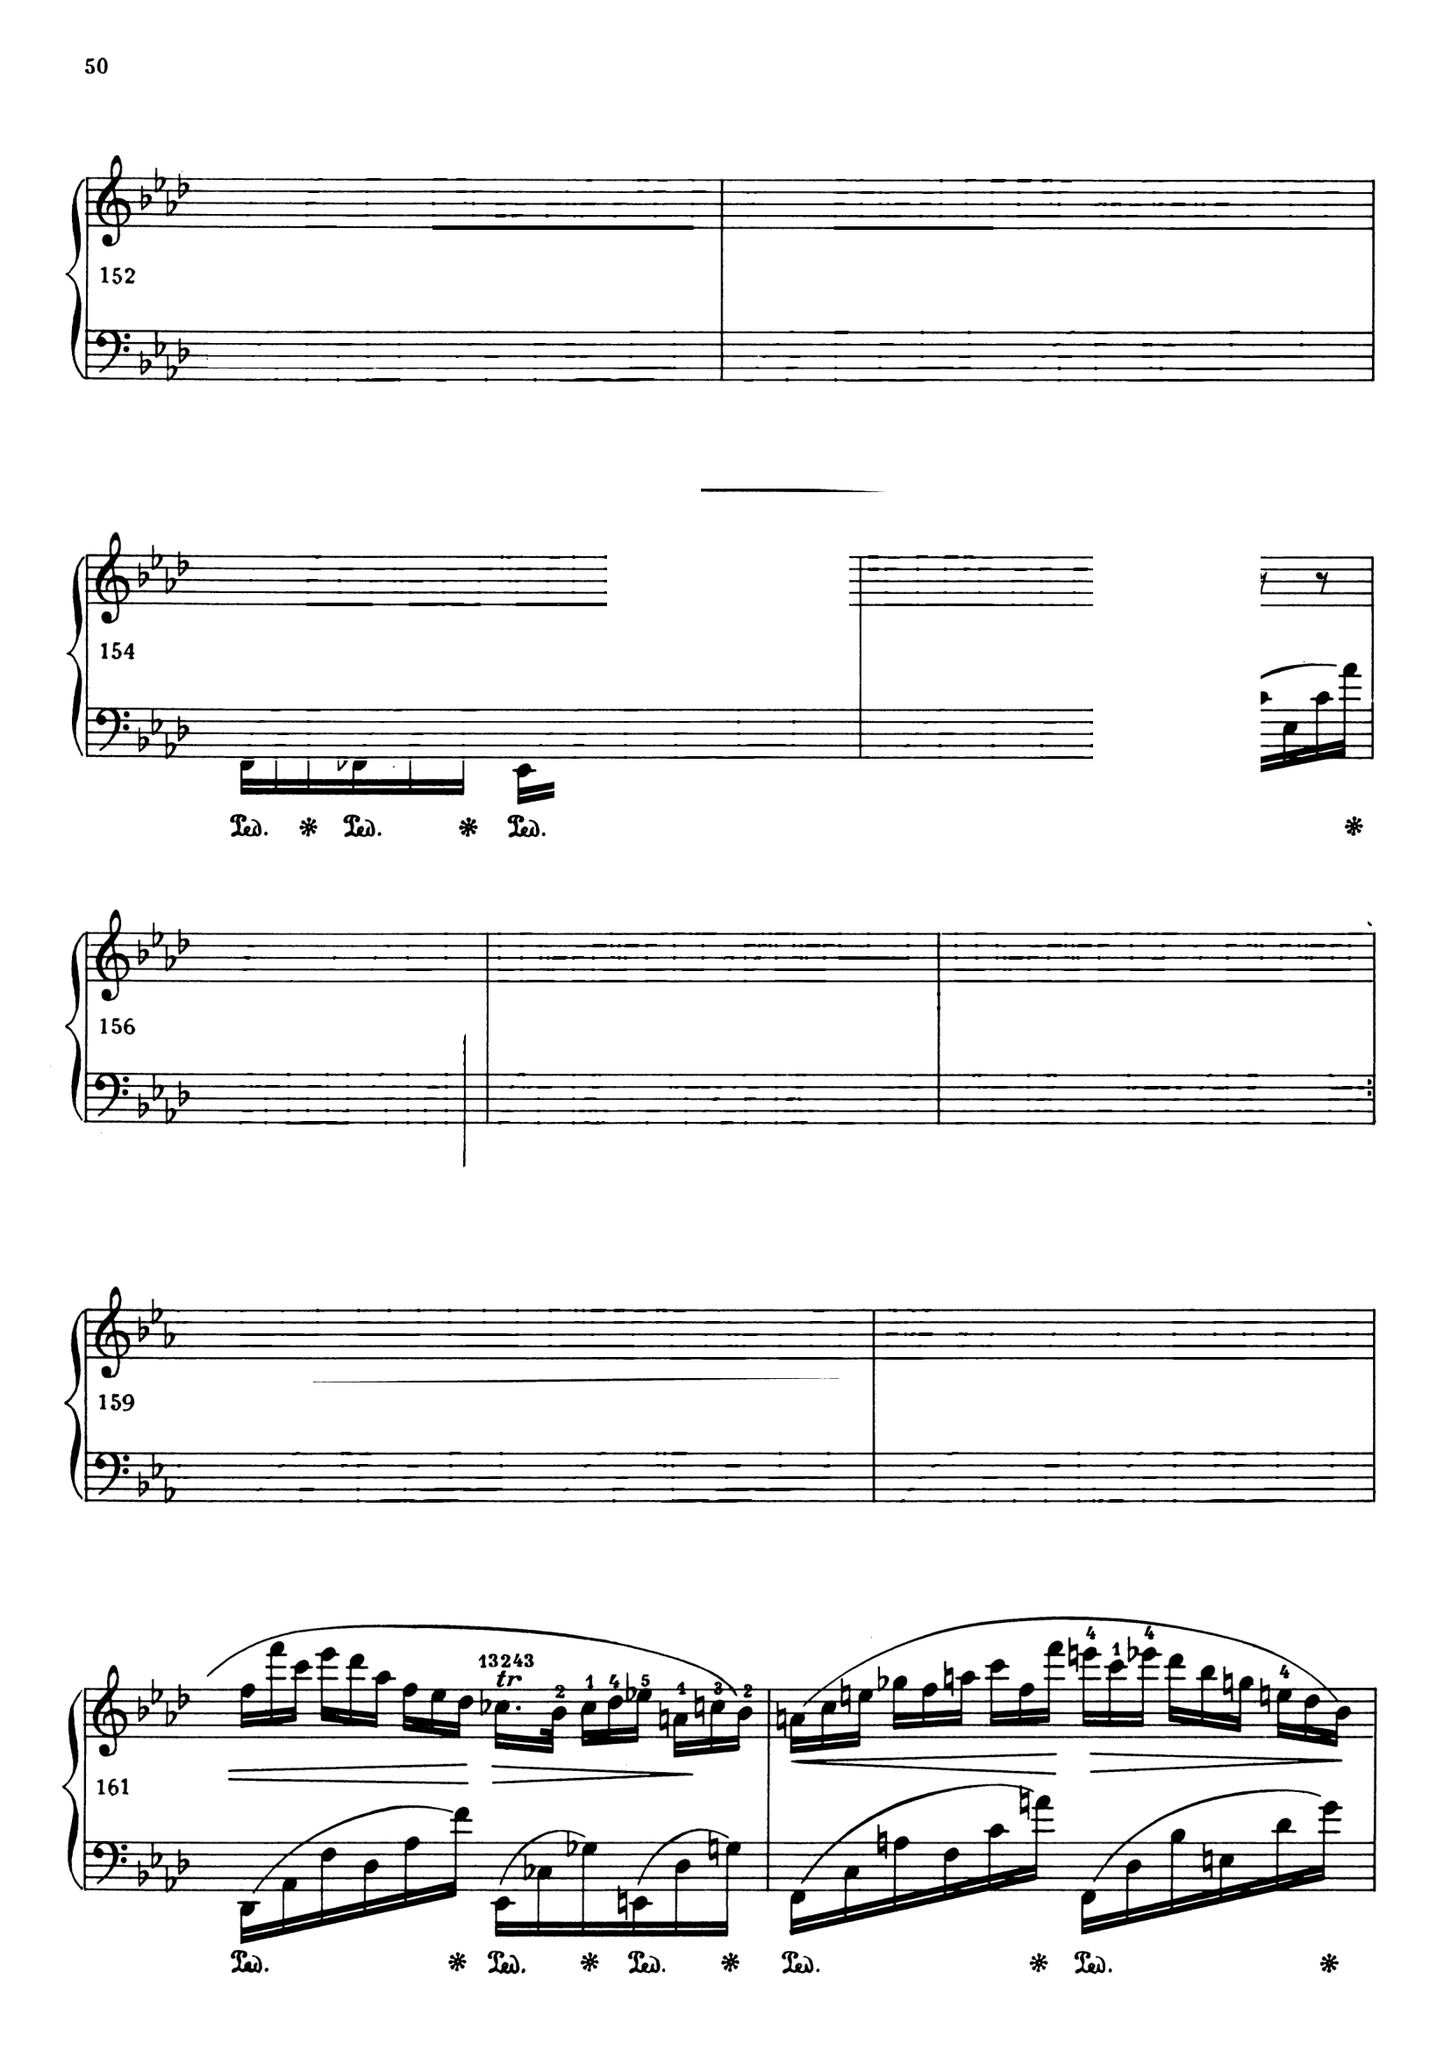
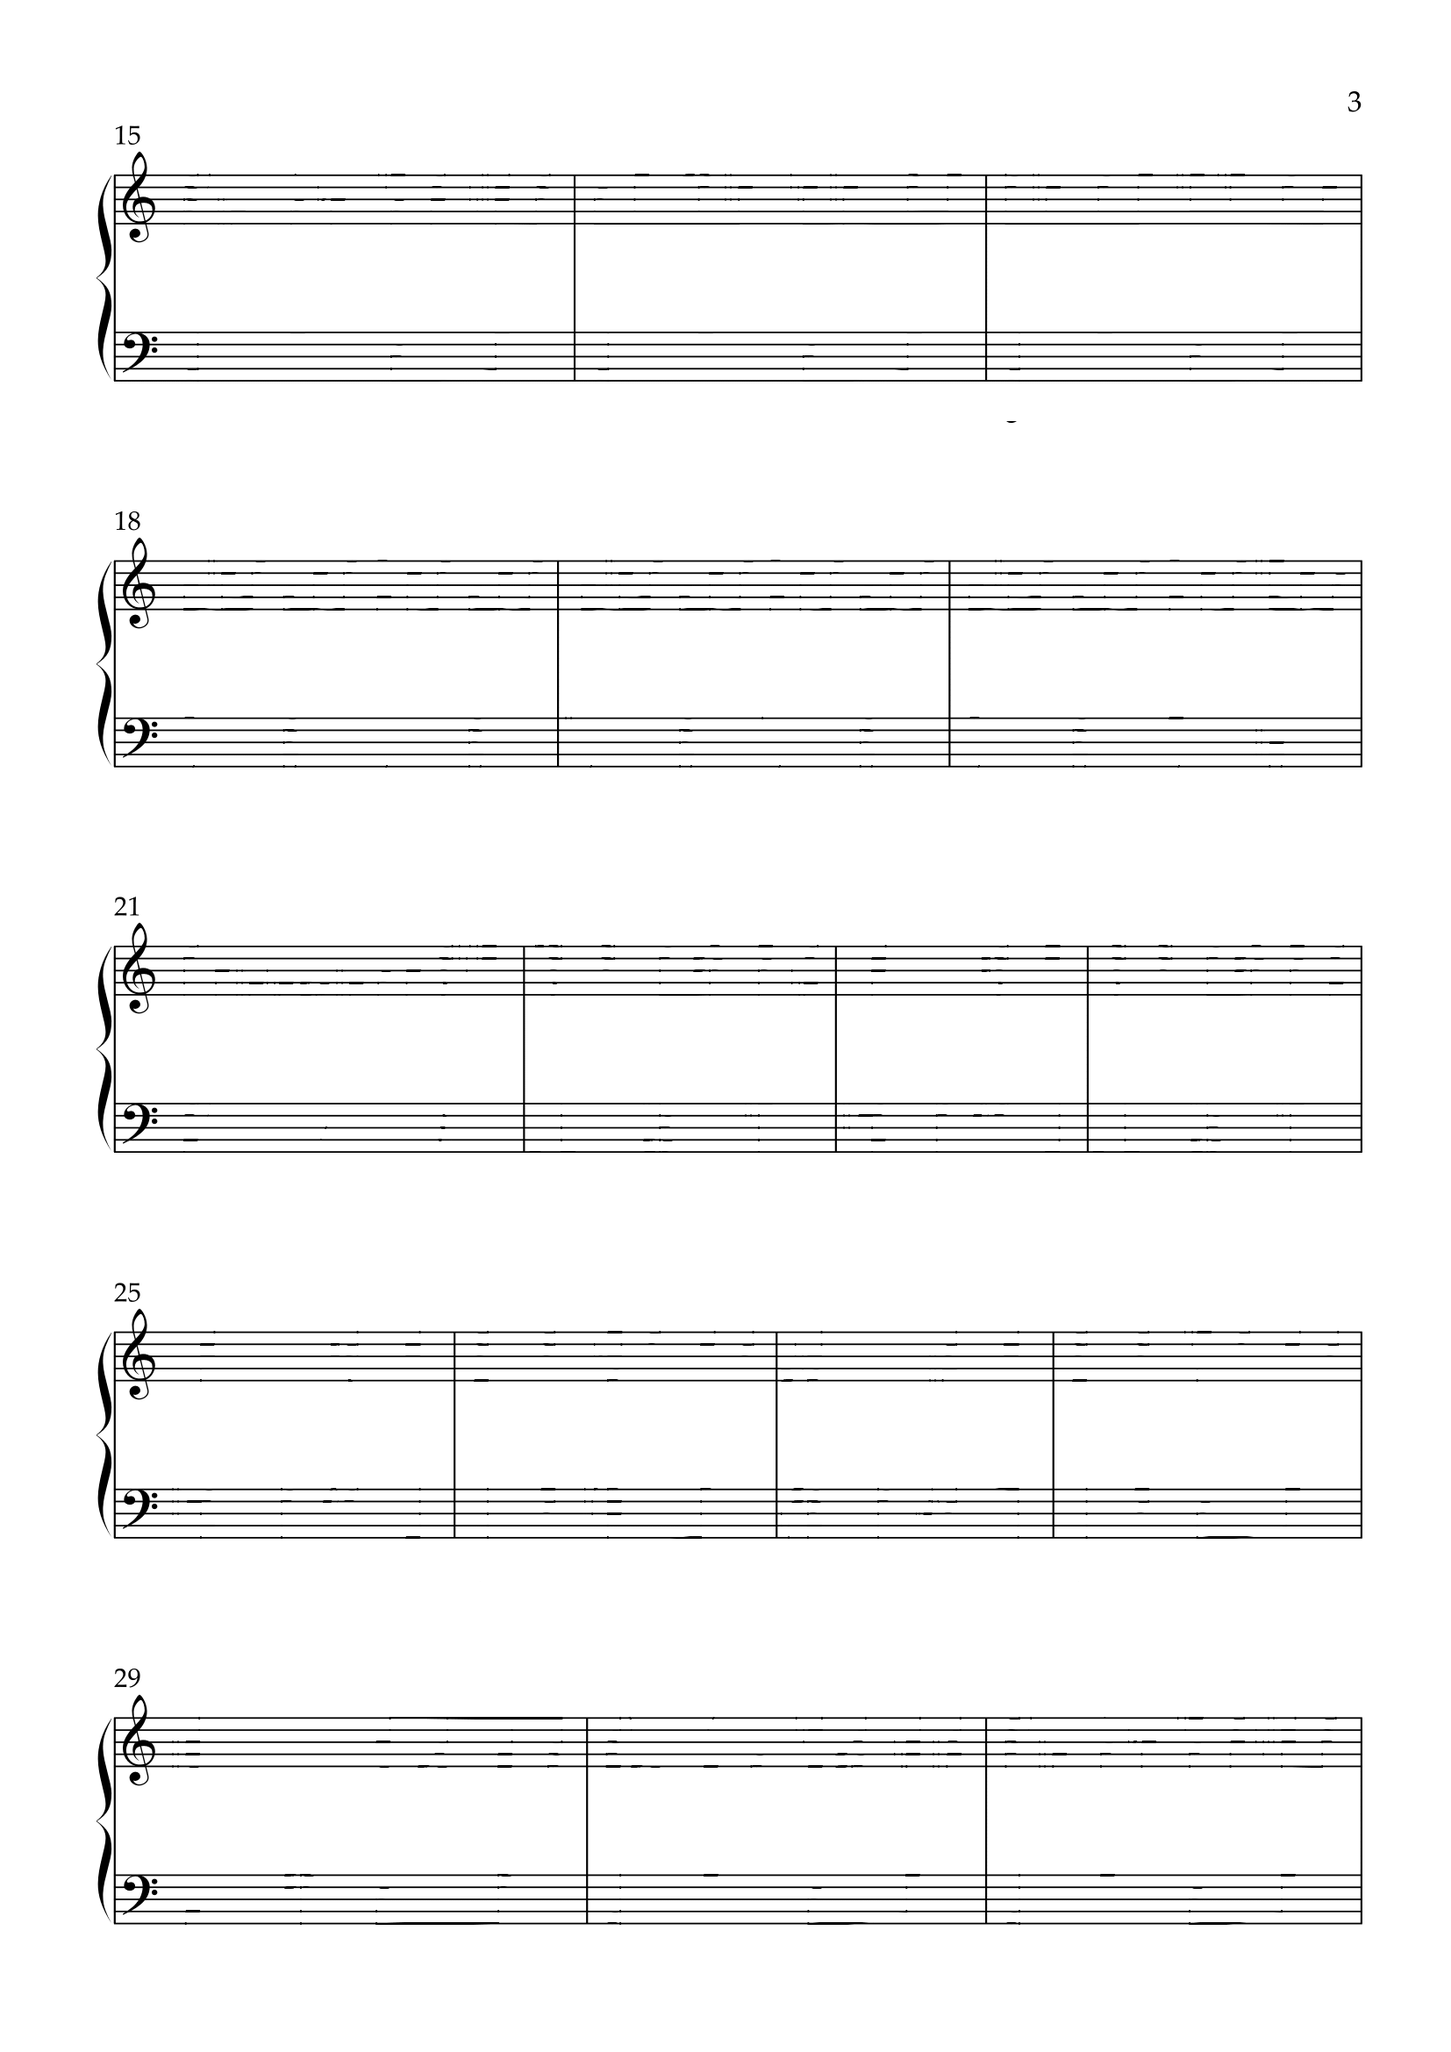
Stuff

diff --git a/video.py b/video.py
@@ -49,9 +49,9 @@ class VideoEditor(tk.Frame):
         self.note_viewer_image = self.note_viewer.create_image(0, 0, anchor='nw', image=self.page_imgs[self.page - 1])
 
         self.last_note_images = []  # ImageTK
-        self.notes = {
-            'r': [], 'l': [], 'symbols': []
-        }  # Map of voices and list of notes {'timing', 'animation', 'duration}
+        with open('notes.json') as f:  # [{'r': [] ...}, {'r': [] ...} ...]
+            self.notes = json.load(f)
+
         self.history = []
 
         self.play_pause_button = tk.Button(self, text='Play', command=self.play_pause)
@@ -62,7 +62,7 @@ class VideoEditor(tk.Frame):
         self.progress_slider.grid(row=10, column=4, sticky='news', padx=3, pady=3, columnspan=5)
 
         self.speed_var = tk.StringVar(self, '1x')
-        self.speed_dropdown = tk.OptionMenu(self, self.speed_var, '1x', '0.5x', '0.25x', '0.125x', '0.0625x')
+        self.speed_dropdown = tk.OptionMenu(self, self.speed_var, '1x', '0.5x', '0.25x', '0.125x', '0.0625x', '0.02x')
         self.speed_dropdown.grid(row=10, column=9, sticky='news', padx=3, pady=3)
 
         # Voice input buttons
@@ -73,6 +73,7 @@ class VideoEditor(tk.Frame):
         self.rh_on = tk.IntVar()
         self.lh_on = tk.IntVar()
         self.symbol_on = tk.IntVar()
+        self.extra_on = tk.IntVar()
         
         self.check_box_frame = tk.Frame(self)
         self.check_box_frame.grid(row=11, column=0, rowspan=1, columnspan=1)
@@ -82,6 +83,8 @@ class VideoEditor(tk.Frame):
         self.lh_check_box.pack()
         self.symbol_check_box = tk.Checkbutton(self.check_box_frame, text='Symbol', variable=self.symbol_on)
         self.symbol_check_box.pack()
+        self.extra_check_box = tk.Checkbutton(self.check_box_frame, text='Extra', variable=self.extra_on)
+        self.extra_check_box.pack()
 
         self.fast_place_frame = tk.Frame(self)
         self.fast_place_frame.grid(row=12, column=0)
@@ -105,21 +108,38 @@ class VideoEditor(tk.Frame):
         self.duration_button = tk.Button(self.duration_frame, text='Enter', command=self.get_animation_duration)
         self.duration_button.pack()
 
-        self.guidelines = []  # List of timings
+        with open('misc.json') as f:
+            self.misc_data = json.load(f)
+            self.misc_data.setdefault('guidelines', [])
+            self.misc_data.setdefault('pagebreaks', [])
+
+        if len(self.notes) <= len(self.misc_data['pagebreaks']):
+            self.create_new_page()
 
         self.place_frame = tk.Frame(self)
         self.place_frame.grid(row=11, column=1)
-        self.place_note_button = tk.Button(self.place_frame, text='Place Voice', command=self.place_voice_button)
+        self.place_note_button = tk.Button(self.place_frame, text='Place voice', command=self.place_voice_button)
         self.place_note_button.pack(fill='both')
         self.place_guideline_button = tk.Button(self.place_frame, text='Place guideline', command=self.place_guideline)
         self.place_guideline_button.pack()
 
-        self.place_mode = tk.StringVar(self, 'on')
-        self.place_mode_menu = tk.OptionMenu(self.place_frame, self.place_mode, 'on', 'before')
+        self.pagebreak_button = tk.Button(self.place_frame, text='Pagebreak', command=self.place_pagebreak)
+        self.pagebreak_button.pack(fill='both')
+
+        self.place_mode = tk.StringVar(self, 'before')
+        self.place_mode_menu = tk.OptionMenu(self.place_frame, self.place_mode, 'before', 'on')
         self.place_mode_menu.pack(fill='both')
 
-        self.save_button = tk.Button(self, text='Save Notes', command=self.save_json)
-        self.save_button.grid(row=13, column=1)
+        self.animation_type = tk.StringVar(self, 'fade')
+        self.animation_type_menu = tk.OptionMenu(self.place_frame, self.animation_type, 'fade', 'glow', 'slide')
+        self.animation_type_menu.pack(fill='both')
+
+        self.save_clear_frame = tk.Frame(self)
+        self.save_clear_frame.grid(row=13, column=1)
+        self.save_button = tk.Button(self.save_clear_frame, text='Save Notes', command=self.save_json)
+        self.save_button.pack()
+        self.clear_button = tk.Button(self.save_clear_frame, text='Clear page', command=self.clear)
+        self.clear_button.pack()
 
         self.undo_button = tk.Button(self, text='Undo', command=self.undo, state=tk.DISABLED)
         self.undo_button.grid(row=13, column=0)
@@ -137,6 +157,12 @@ class VideoEditor(tk.Frame):
         self.playback_elements = []
         self.update_voice_input(event=None)
 
+    def create_new_page(self):
+        new_page = {
+            'r': [], 'l': [], 'symbols': [], 'extra': []
+        }
+        self.notes.append(new_page)
+
     def undo(self):
         recent = self.history[-1]
         self.notes = recent
@@ -147,6 +173,24 @@ class VideoEditor(tk.Frame):
         if not self.history:
             self.undo_button.configure(state=tk.DISABLED)
 
+    def clear(self):
+        self.notes[-1] = {
+            'r': [], 'l': [], 'symbols': [], 'extra': []
+        }
+        new_guidelines = []
+        for line in self.misc_data['guidelines']:
+            if line <= self.misc_data['pagebreaks'][-1]:
+                new_guidelines.append(line)
+        self.misc_data['guidelines'] = new_guidelines
+        self.misc_data = {'guidelines': [], 'pagebreaks': []}
+        with open('notes.json', 'w') as f:
+            json.dump(self.notes, f)
+        with open('misc.json', 'w') as f:
+            json.dump(self.misc_data, f)
+
+        self.update_note_viewer()
+        self.update_voice_input(event=None)
+
     def fast_place(self):
         text = self.fast_place_text.get("1.0", 'end-1c')
         split_hyphens = text.split('-')
@@ -156,9 +200,9 @@ class VideoEditor(tk.Frame):
                 end_guideline_idx = int(split_hyphens[1]) - 1
                 num_notes = int(split_hyphens[2])
 
-                if start_guideline_idx < end_guideline_idx < len(self.guidelines):
-                    start_duration = self.guidelines[start_guideline_idx]
-                    graduation = (self.guidelines[end_guideline_idx] - start_duration) / num_notes
+                if start_guideline_idx < end_guideline_idx < len(self.misc_data['guidelines']):
+                    start_duration = self.misc_data['guidelines'][start_guideline_idx]
+                    graduation = (self.misc_data['guidelines'][end_guideline_idx] - start_duration) / num_notes
                     for i in range(num_notes):
                         duration = start_duration + i * graduation
                         self.place_voice(duration)
@@ -205,16 +249,18 @@ class VideoEditor(tk.Frame):
             self.note_viewer.delete(image)
         self.last_note_images = []
 
-        for voice, notes in self.notes.items():
+        for voice, notes in self.notes[self.page - 1].items():
             if notes:
                 note_id = len(notes)
                 filepath = ''
                 if voice == 'r':
-                    filepath = f'Notes/Page {self.page}/RH/r{note_id}.png'
+                    filepath = f'Notes/Page{self.page}/RH/r{note_id}.png'
                 if voice == 'l':
-                    filepath = f'Notes/Page {self.page}/LH/l{note_id}.png'
+                    filepath = f'Notes/Page{self.page}/LH/l{note_id}.png'
                 if voice == 'symbols':
-                    filepath = f'Notes/Page {self.page}/Symbols/s{note_id}.png'
+                    filepath = f'Notes/Page{self.page}/Symbols/s{note_id}.png'
+                if voice == 'extra':
+                    filepath = f'Notes/Page{self.page}/Extra/e{note_id}.png'
 
                 if os.path.isfile(filepath):
                     img_data = Image.open(filepath).convert("RGBA")
@@ -227,6 +273,8 @@ class VideoEditor(tk.Frame):
                         g = g.point(lambda i: i + 200)
                     if voice == 'symbols':
                         g = g.point(lambda i: i + 200)
+                    if voice == 'extra':
+                        b = b.point(lambda i: i + 200)
                     new_image = Image.merge('RGBA', (r, g, b, a))
 
                     scaled_img_data = new_image.resize((384, 440))
@@ -239,8 +287,8 @@ class VideoEditor(tk.Frame):
 
     def check_note_placeable(self, note, voice):
         # Can't be before an existing note or on an existing note
-        if self.notes[voice]:
-            last_note = self.notes[voice][-1]
+        if self.notes[self.page - 1][voice]:
+            last_note = self.notes[self.page - 1][voice][-1]
             if note['timing'] > last_note['timing']:
                 return True
             else:
@@ -254,7 +302,7 @@ class VideoEditor(tk.Frame):
 
     def place_voice(self, duration):
         timing = duration if self.place_mode.get() == 'on' else duration - self.animation_duration
-        new_note = {'timing': timing, 'animation': 'fade', 'duration': self.animation_duration}
+        new_note = {'timing': timing, 'animation': self.animation_type.get(), 'duration': self.animation_duration}
 
         placeable_voices = []
 
@@ -264,13 +312,18 @@ class VideoEditor(tk.Frame):
             placeable_voices.append('l')
         if self.symbol_on.get() and self.check_note_placeable(new_note, 'symbols'):
             placeable_voices.append('symbols')
-        if not (self.rh_on.get() or self.lh_on.get() or self.symbol_on.get()):
+        if self.extra_on.get() and self.check_note_placeable(new_note, 'extra'):
+            placeable_voices.append('extra')
+        if not (self.rh_on.get() or self.lh_on.get() or self.symbol_on.get() or self.extra_on.get()):
             return
 
         for voice in placeable_voices:
             self.history.append(deepcopy(self.notes))
-            self.notes[voice].append(new_note)
+            self.notes[self.page - 1][voice].append(new_note)
             self.undo_button.configure(state=tk.ACTIVE)
+
+        with open('notes.json', 'w') as f:
+            json.dump(self.notes, f)
 
         self.update_note_viewer()
         self.update_voice_input(event=None)
@@ -279,22 +332,52 @@ class VideoEditor(tk.Frame):
         current_duration = self.video_player.current_duration()
         can_place = False
 
-        if self.guidelines:
-            if current_duration > self.guidelines[-1]:
+        if self.misc_data['guidelines']:
+            if current_duration > self.misc_data['guidelines'][-1]:
                 can_place = True
         else:
             can_place = True
 
         if can_place:
-            self.guidelines.append(current_duration)
+            self.misc_data['guidelines'].append(current_duration)
+            with open('misc.json', 'w') as f:
+                json.dump(self.misc_data, f)
 
-        print(self.guidelines)
+        self.update_voice_input(event=None)
+
+    def place_pagebreak(self):
+        current_duration = self.video_player.current_duration()
+        can_place = False
+
+        if self.misc_data['pagebreaks']:
+            if current_duration > self.misc_data['pagebreaks'][-1]:
+                can_place = True
+        else:
+            can_place = True
+
+        if can_place:
+            self.misc_data['pagebreaks'].append(current_duration)
+            with open('misc.json', 'w') as f:
+                json.dump(self.misc_data, f)
+
+        if len(self.notes) <= len(self.misc_data['pagebreaks']):
+            self.create_new_page()
         self.update_voice_input(event=None)
 
     def update_voice_input(self, event):
         current_duration = self.video_player.current_duration()
         left_frame = (current_duration // self.view_width) * self.view_width
         playback_rel_x = (current_duration % self.view_width) / self.view_width
+
+        # Get the page number
+        max_idx = 0
+        for i, page_break in enumerate(self.misc_data['pagebreaks']):
+            if current_duration > page_break:
+                max_idx = i + 1
+        if max_idx + 1 != self.page:  # Page has changed
+            self.page = max_idx + 1
+            self.note_viewer_image = self.note_viewer.create_image(0, 0, anchor='nw',
+                                                                   image=self.page_imgs[self.page - 1])
 
         self.voice_input_items = []  # Clear everything
 
@@ -307,30 +390,50 @@ class VideoEditor(tk.Frame):
 
         self.voice_input_canvas.delete('note')
 
-        for voice, notes in self.notes.items():
-            for note in notes:
-                x_val = (note['timing'] - left_frame) / self.view_width
-                y_val = 0
-                colour = 'red'
-                if voice == 'l':
-                    y_val = 1
-                    colour = 'yellow'
-                elif voice == 'symbols':
-                    y_val = 2
-                    colour = 'green'
+        for page in self.notes:
+            for voice, notes in page.items():
+                for note in notes:
+                    x_val = (note['timing'] - left_frame) / self.view_width
+                    y_val = 0
+                    colour = 'red'
+                    if voice == 'l':
+                        y_val = 1
+                        colour = 'yellow'
+                    elif voice == 'symbols':
+                        y_val = 2
+                        colour = 'green'
+                    elif voice == 'extra':
+                        y_val = 3
+                        colour = 'blue'
 
-                new_circle = self.voice_input_canvas.create_oval(x_val * 896 - 5, 20 + 255 / 6 + y_val * (255 / 3),
-                                                                 x_val * 896 + 5, 30 + 255 / 6 + y_val * (255 / 3), fill=colour, tags='note')
-                self.voice_input_items.append(new_circle)
+                    new_circle = self.voice_input_canvas.create_oval(x_val * 896 - 5, 20 + 255 / 8 + y_val * (255 / 4),
+                                                                     x_val * 896 + 5, 30 + 255 / 8 + y_val * (255 / 4), fill=colour, tags='note', outline='white')
+                    self.voice_input_items.append(new_circle)
+
+                    fade_line = self.voice_input_canvas.create_line(x_val * 896, 25 + 255 / 8 + y_val * (255 / 4),
+                                                                    (x_val + note['duration'] / self.view_width) * 896, 25 + 255 / 8 + y_val * (255 / 4), fill='white', tags='note')
+                    self.voice_input_items.append(fade_line)
 
         self.voice_input_canvas.delete('guideline')
 
-        for i, duration in enumerate(self.guidelines):
+        for i, duration in enumerate(self.misc_data['guidelines']):
             x_val = (duration - left_frame) / self.view_width
             new_line = self.voice_input_canvas.create_line(x_val * 896, 0, x_val * 896, 280, fill='grey', tags='guideline')
             self.voice_input_items.append(new_line)
 
             line_text = self.voice_input_canvas.create_text(x_val * 896, 260, anchor='sw', text=str(i + 1), fill='grey', tags='guideline', font='Arial 10')
+            self.voice_input_items.append(line_text)
+
+        self.voice_input_canvas.delete('pagebreak')
+
+        for i, duration in enumerate(self.misc_data['pagebreaks']):
+            x_val = (duration - left_frame) / self.view_width
+            new_line = self.voice_input_canvas.create_line(x_val * 896, 0, x_val * 896, 280, fill='cyan', dash=(5, 1),
+                                                           tags='pagebreak')
+            self.voice_input_items.append(new_line)
+
+            line_text = self.voice_input_canvas.create_text(x_val * 896, 260, anchor='se', text=str(i + 1), fill='cyan',
+                                                            tags='pagebreak', font='Arial 10')
             self.voice_input_items.append(line_text)
 
 """

diff --git a/sheet_music.py b/sheet_music.py
@@ -146,7 +146,7 @@ class SheetMusic(tk.Frame):
                     self.img_data_history.append(self.orig_img_data)
                     self.undo_button.configure(state=tk.ACTIVE)
                     self.canvas.configure(cursor='watch')
-                    new_img = remove_stave(self.selection_area, self.orig_img_data, self.x_thresh_var.get(), self.y_thresh_var.get())
+                    new_img = remove_notes(self.selection_area, self.orig_img_data, self.x_thresh_var.get(), self.y_thresh_var.get())
                     self.place_image(new_img)
 
                     self.select1 = None
